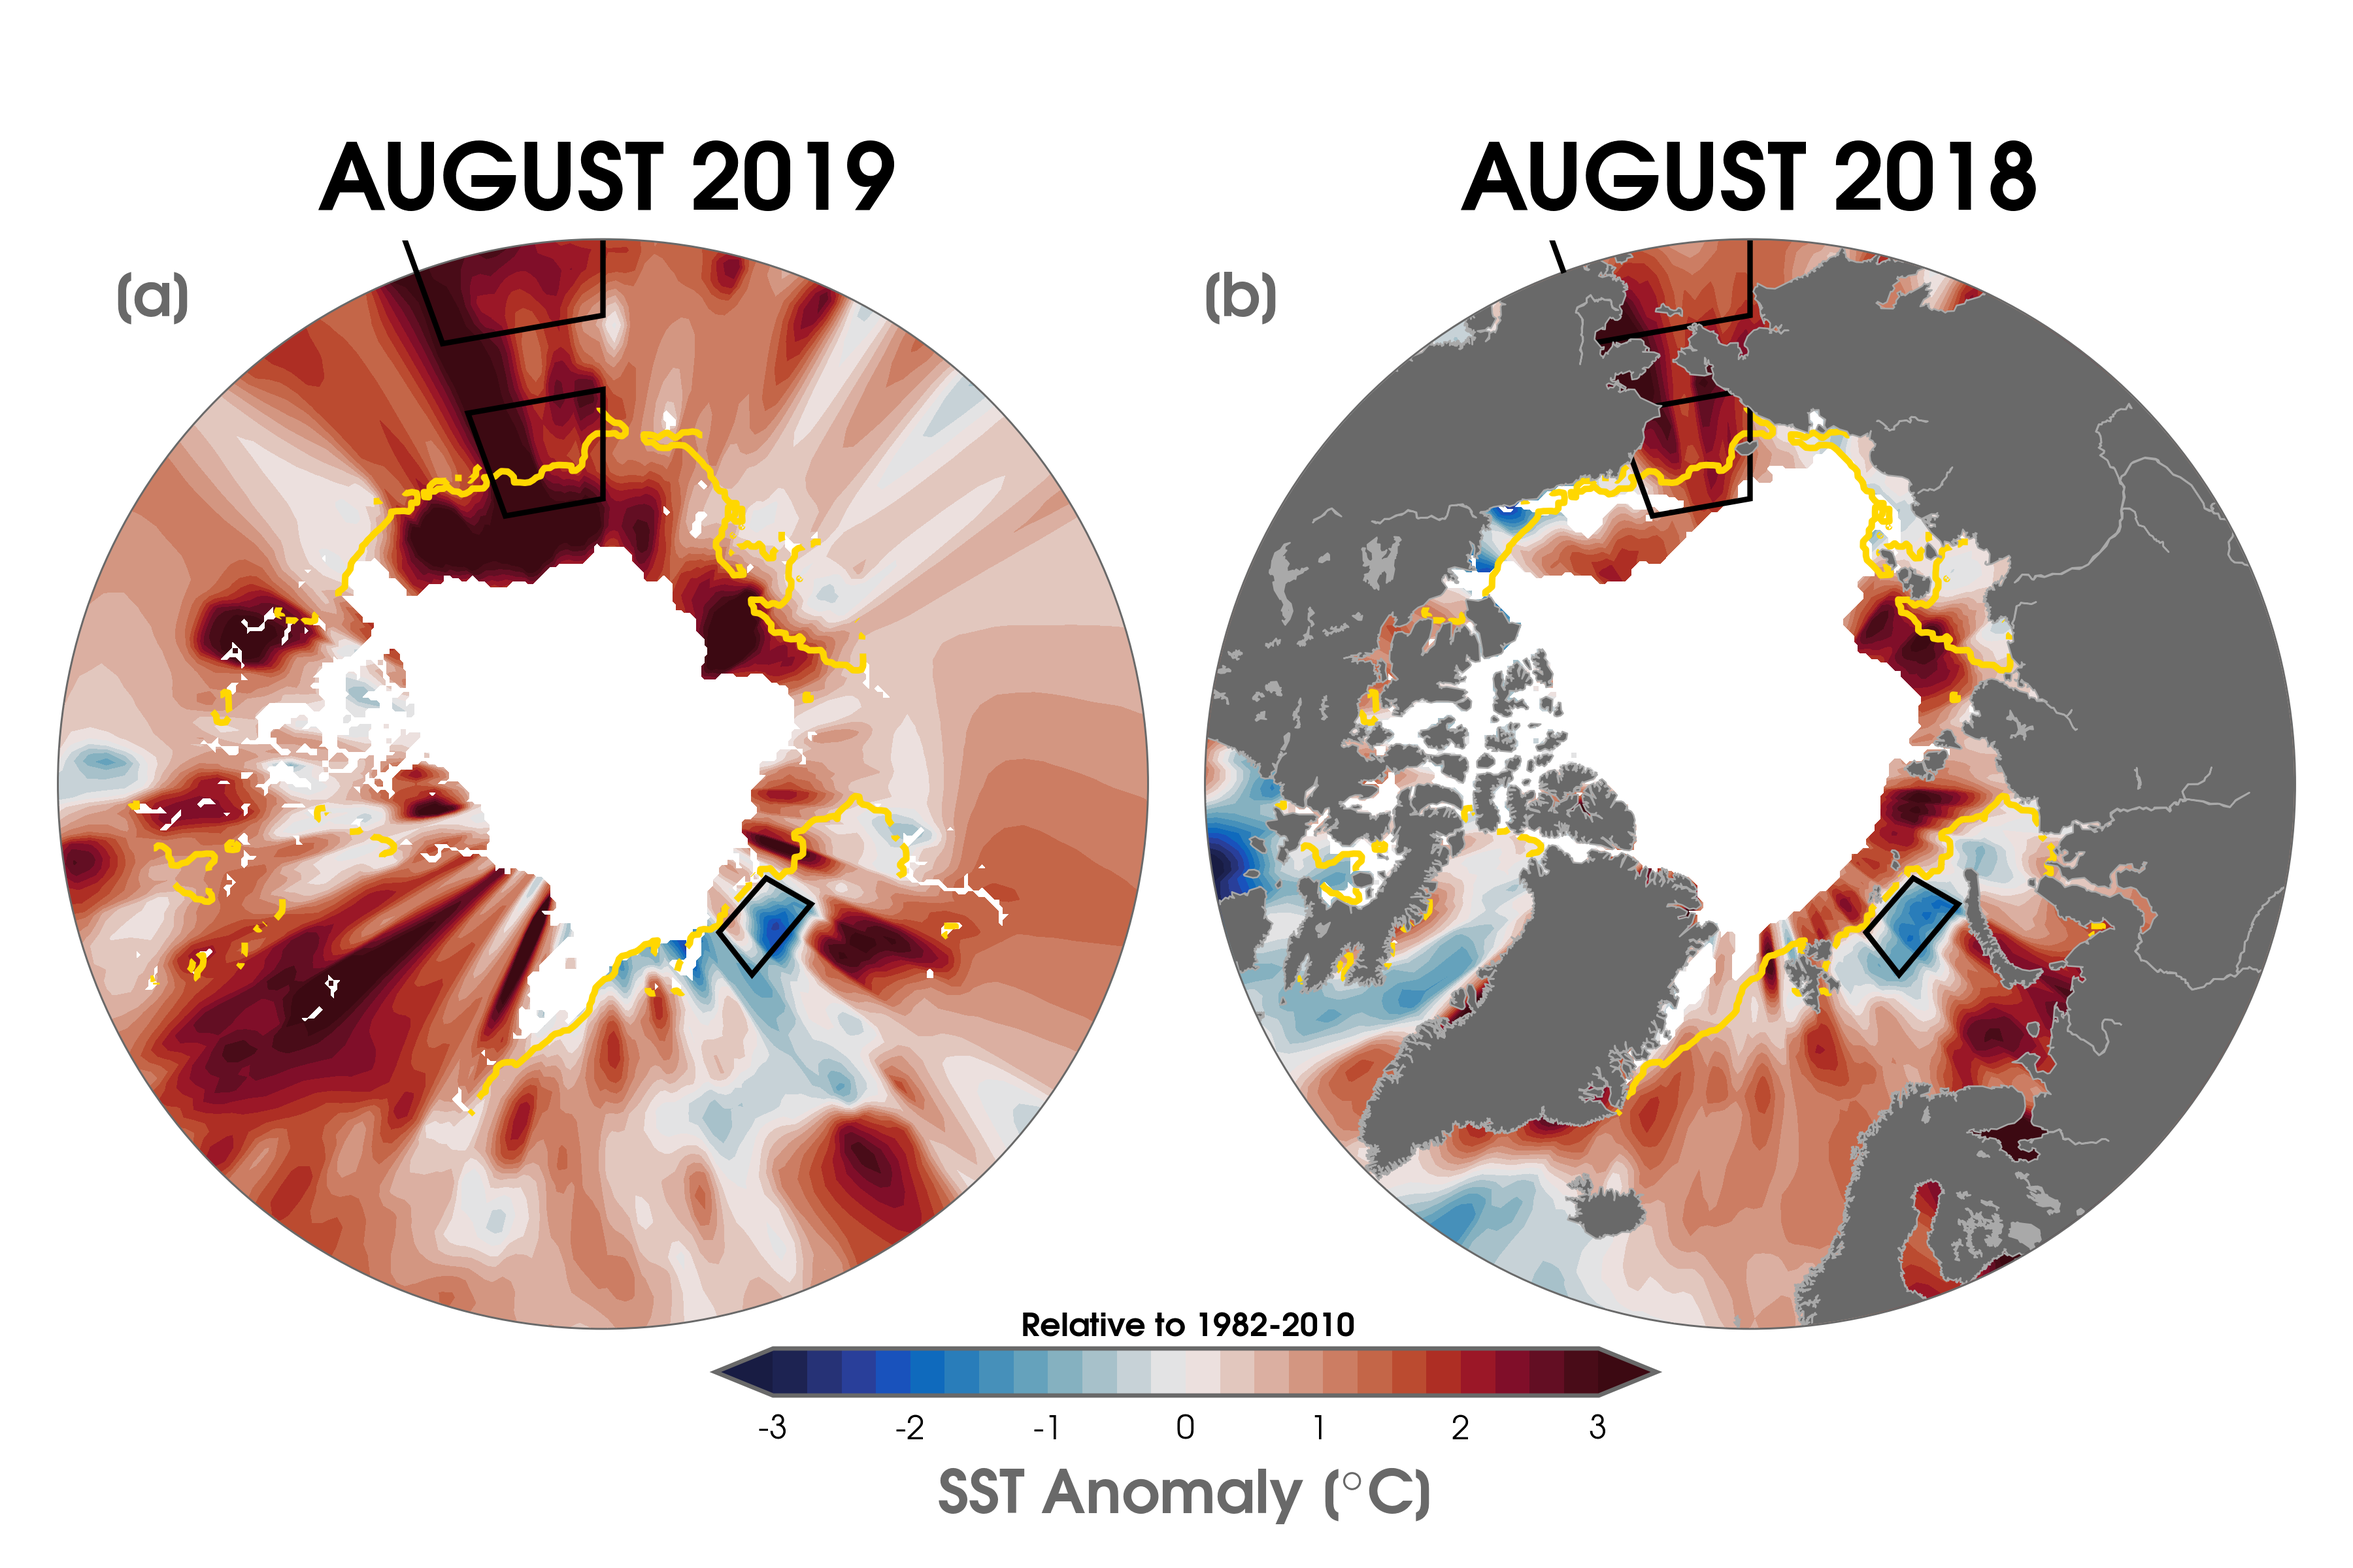
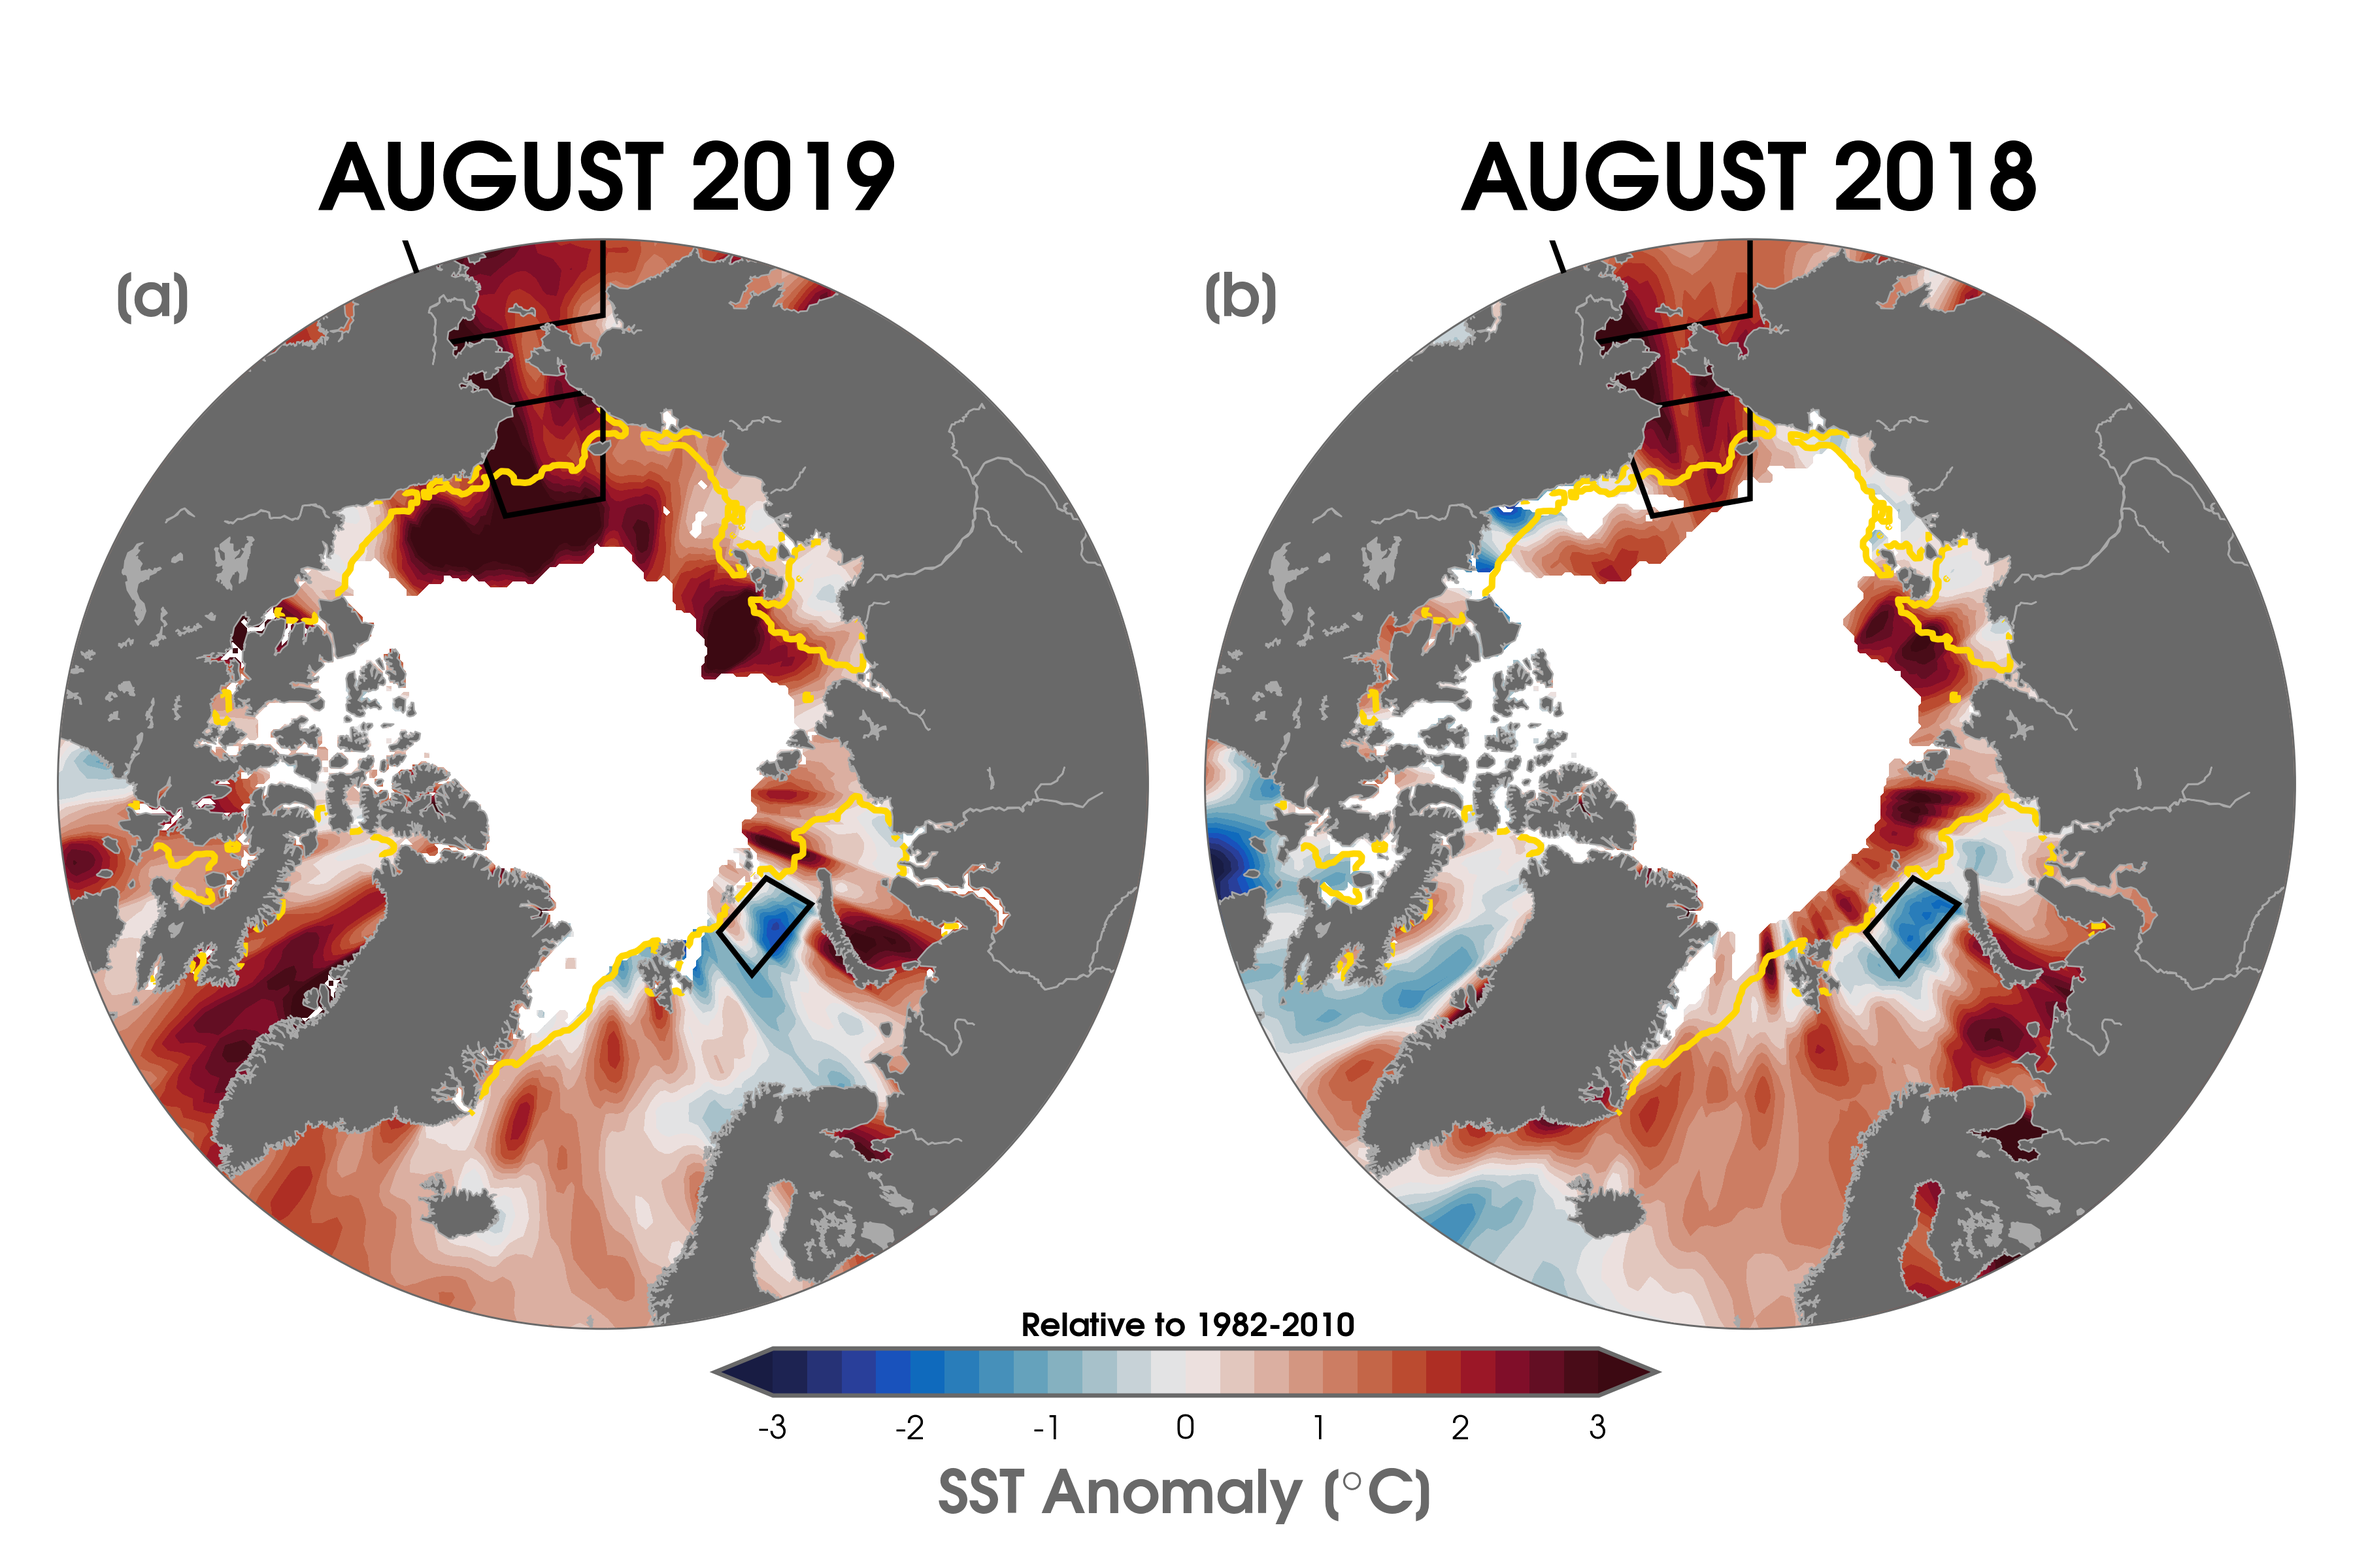
SIE calculate

Changed region(s): [[0.0, 0.1562, 0.4978, 0.8438], [0.1556, 0.75, 0.2178, 0.8125]]

diff --git a/BAMS_SOTC/2019/calc_meanSST.py b/BAMS_SOTC/2019/calc_meanSST.py
@@ -32,91 +32,93 @@ sstn[np.where(sstn == 0.)] = np.nan
 
 ### Reshape for [year,month,lat,lon]
 sst = np.reshape(sstn,(sstn.shape[0]//12,12,lat1.shape[0],lon1.shape[0]))
-#
-#### Calculate average for polar cap and mask data
-#def aveSST(data,lat,lon,mask,period):
-#    if mask == 'polar_cap':
-#        latpolar = 67.
-#        latq = np.where((lat >= latpolar))[0]
-#        sstnew = sst[:,:,latq,:]
-#        latt = lat[latq]
-#        lonn = lon
-#    elif mask == 'north_barents':
-#        latq = np.where((lat >= 76.4) & (lat <= 79.4))[0]
-#        lonq = np.where((lon >= 38) & (lon <= 60))[0]
-#        latt = lat[latq]
-#        lonn = lon[lonq]
-#        sstnew1 = sst[:,:,latq,:]
-#        sstnew = sstnew1[:,:,:,lonq]
-#    elif mask == 'chukchi':
-#        latq = np.where((lat >= 68) & (lat <= 74))[0]
-#        lonq = np.where((lon >= 180) & (lon <= 200))[0]
-#        latt = lat[latq]
-#        lonn = lon[lonq]
-#        sstnew1 = sst[:,:,latq,:]
-#        sstnew = sstnew1[:,:,:,lonq]
-#    elif mask == 'bering':
-#        latq = np.where((lat >= 54) & (lat <= 64))[0]
-#        lonq = np.where((lon >= 180) & (lon <= 200))[0]
-#        latt = lat[latq]
-#        lonn = lon[lonq]
-#        sstnew1 = sst[:,:,latq,:]
-#        sstnew = sstnew1[:,:,:,lonq]
-#    elif mask == 'global':
-#        sstnew = sst
-#        latt = lat
-#        lonn = lon
-#        
-#    ### Mask lat/lon for 2d
-#    lon2,lat2 = np.meshgrid(lonn,latt)
-#    
-#    ### Calculated weighted average
-#    sstave = UT.calc_weightedAve(sstnew,lat2)
-#    
-#    ### Calculate temporal period
-#    if period == 'annual':
-#        sstperiod = np.nanmean(sstave,axis=1)
-#    elif period == 'aug':
-#        sstperiod = sstave[:,7]
-#    elif period == 'sep':
-#        sstperiod = sstave[:,8]
-#        
-#    ### Calculate anomalies using 1982-2010 baseline
-#    years = np.arange(1982,2019+1,1)
-#    yearq = np.where((years >= 1982) & (years <= 2010))[0]
-#    
-#    climo = np.nanmean(sstperiod[yearq])
-#    anomperiod = sstperiod - climo
-#    
-#    return sstave,anomperiod,latt,lonn
-#
-#### Use functions
-#periodmonth = 'aug'
-#meansst_global,period_global,latt,lonn = aveSST(sst,lat1,lon1,'global',periodmonth)
-#meansst_polar,period_polar,latt,lonn = aveSST(sst,lat1,lon1,'polar_cap',periodmonth)
-#meansst_barents,period_barents,latt,lonn = aveSST(sst,lat1,lon1,'north_barents',periodmonth)
-#meansst_chukchi,period_chukchi,latt,lonn = aveSST(sst,lat1,lon1,'chukchi',periodmonth)
-#meansst_bering,period_bering,latt,lonn = aveSST(sst,lat1,lon1,'bering',periodmonth)
-#
-#### Calculate trends
-#regions = ['Global','Arctic','Barents','Chukchi','Bering']
-#dataall = [period_global,period_polar,period_barents,period_chukchi,period_bering]
-#print('\n----------------------------')
-#
-#slope = np.empty((len(dataall)))
-#intercept = np.empty((len(dataall)))
-#rvalue = np.empty((len(dataall)))
-#pvalue = np.empty((len(dataall)))
-#std_err = np.empty((len(dataall)))
-#for i in range(len(dataall)):
-#    time = np.arange(dataall[i].shape[0])
-#    slope[i],intercept[i],rvalue[i],pvalue[i],std_err[i] = sts.linregress(time,dataall[i])
-#    print('Trend is *%s* per year for *%s*' % (np.round(slope[i],3),regions[i]))
-#print('----------------------------\n')  
-#
-#### Confidence interval for 95% level
-#std_err = std_err*1.96
-#
+
+### Calculate average for polar cap and mask data
+def aveSST(data,lat,lon,mask,period):
+    if mask == 'polar_cap':
+        latpolar = 67.
+        latq = np.where((lat >= latpolar))[0]
+        sstnew = sst[:,:,latq,:]
+        latt = lat[latq]
+        lonn = lon
+    elif mask == 'north_barents':
+        latq = np.where((lat >= 76.4) & (lat <= 79.4))[0]
+        lonq = np.where((lon >= 38) & (lon <= 60))[0]
+        latt = lat[latq]
+        lonn = lon[lonq]
+        sstnew1 = sst[:,:,latq,:]
+        sstnew = sstnew1[:,:,:,lonq]
+    elif mask == 'chukchi':
+        latq = np.where((lat >= 68) & (lat <= 74))[0]
+        lonq = np.where((lon >= 180) & (lon <= 200))[0]
+        latt = lat[latq]
+        lonn = lon[lonq]
+        sstnew1 = sst[:,:,latq,:]
+        sstnew = sstnew1[:,:,:,lonq]
+    elif mask == 'bering':
+        latq = np.where((lat >= 54) & (lat <= 64))[0]
+        lonq = np.where((lon >= 180) & (lon <= 200))[0]
+        latt = lat[latq]
+        lonn = lon[lonq]
+        sstnew1 = sst[:,:,latq,:]
+        sstnew = sstnew1[:,:,:,lonq]
+    elif mask == 'global':
+        sstnew = sst
+        latt = lat
+        lonn = lon
+        
+    ### Mask lat/lon for 2d
+    lon2,lat2 = np.meshgrid(lonn,latt)
+    
+    ### Calculated weighted average
+    sstave = UT.calc_weightedAve(sstnew,lat2)
+    plt.contourf(sstnew[0,0,:,:])
+    plt.show()
+    
+    ### Calculate temporal period
+    if period == 'annual':
+        sstperiod = np.nanmean(sstave,axis=1)
+    elif period == 'aug':
+        sstperiod = sstave[:,7]
+    elif period == 'sep':
+        sstperiod = sstave[:,8]
+        
+    ### Calculate anomalies using 1982-2010 baseline
+    years = np.arange(1982,2019+1,1)
+    yearq = np.where((years >= 1982) & (years <= 2010))[0]
+    
+    climo = np.nanmean(sstperiod[yearq])
+    anomperiod = sstperiod - climo
+    
+    return sstave,anomperiod,latt,lonn
+
+### Use functions
+periodmonth = 'aug'
+meansst_global,period_global,latt,lonn = aveSST(sst,lat1,lon1,'global',periodmonth)
+meansst_polar,period_polar,latt,lonn = aveSST(sst,lat1,lon1,'polar_cap',periodmonth)
+meansst_barents,period_barents,latt,lonn = aveSST(sst,lat1,lon1,'north_barents',periodmonth)
+meansst_chukchi,period_chukchi,latt,lonn = aveSST(sst,lat1,lon1,'chukchi',periodmonth)
+meansst_bering,period_bering,latt,lonn = aveSST(sst,lat1,lon1,'bering',periodmonth)
+
+### Calculate trends
+regions = ['Global','Arctic','Barents','Chukchi','Bering']
+dataall = [period_global,period_polar,period_barents,period_chukchi,period_bering]
+print('\n----------------------------')
+
+slope = np.empty((len(dataall)))
+intercept = np.empty((len(dataall)))
+rvalue = np.empty((len(dataall)))
+pvalue = np.empty((len(dataall)))
+std_err = np.empty((len(dataall)))
+for i in range(len(dataall)):
+    time = np.arange(dataall[i].shape[0])
+    slope[i],intercept[i],rvalue[i],pvalue[i],std_err[i] = sts.linregress(time,dataall[i])
+    print('Trend is *%s* per year for *%s*' % (np.round(slope[i],3),regions[i]))
+print('----------------------------\n')  
+
+### Confidence interval for 95% level
+std_err = std_err*1.96
+
 #### Saving files for time series data
 #for i in range(len(dataall)):
 #    np.savetxt(directorydata + 'SST_%s_%s_1982-2019.txt' % (regions[i],periodmonth),

diff --git a/BAMS_SOTC/2019/calc_SIE.py b/BAMS_SOTC/2019/calc_SIE.py
@@ -1,0 +1,111 @@
+def readNSIDCData(currentmnq):
+    ### Import modules
+    import numpy as np
+    import urllib.request
+    
+    url = 'ftp://sidads.colorado.edu/DATASETS/NOAA/G02135/north/monthly/data/'
+    
+    if currentmnq < 10:
+        monthz = 'N_0%s_extent_v3.0.csv' % currentmnq
+    else:
+        monthz = 'N_%s_extent_v3.0.csv' % currentmnq
+    urls = url + monthz
+    
+    ### Read files
+    raw_data = urllib.request.urlopen(urls)
+    dataset = np.genfromtxt(raw_data, skip_header=1,delimiter=',',
+                            usecols=[0,1,4,5])
+    
+    print('\nCompleted: Read NSDIC Sea Ice Index v3 data!')                        
+    
+    ### Set missing data to nan
+    dataset[np.where(dataset==-9999)] = np.nan
+    
+    ### Variables
+    extent = dataset[3:,2]
+    return extent
+
+def calcSIE(thresh,region,monq):
+    ### Import modules
+    import numpy as np
+    import matplotlib.pyplot as plt
+    import calc_SeaIceConc_CDRv3 as ICE
+    
+    ### Read in sea ice concentration data
+    sic,years,lat,lon = ICE.readSIC(monq-1,True)
+    lon36 = np.mod(lon,360)
+    
+    ## Read in land mask
+    directorymask = '/surtsey/zlabe/seaice/sic/sic_rename/'
+    mask = np.fromfile(directorymask + 'gsfc_25n.msk',dtype='int8')
+    mask = np.reshape(mask,(448,304))
+    mask = mask.astype(float)
+    mask[np.where(mask == 1.0)] = np.nan
+    mask[np.where(mask == 0.0)] = 1.0
+    sicmask = sic * mask
+    
+    ### Check for missing data
+    sicmask[np.where(sicmask > 100)] = np.nan
+    sicmask[np.where(sicmask < thresh)] = np.nan
+    
+    ### Create binary
+    sie = sicmask.copy()
+    sie[np.where((sie >= 15.) & (sie <= 100.))] = 1.
+    
+    if region == 'arctic':
+        sieregion = np.where(lat > 50,sie,np.nan) 
+    elif region == 'north_barents':
+        sieregion1 = np.where(((lat >= 76.4) & (lat <= 79.4)),sie,np.nan)
+        sieregion = np.where(((lon36 >= 38) & (lon36 <= 60)),sieregion1,np.nan)
+    elif region == 'chukchi':
+        sieregion1 = np.where(((lat >= 68) & (lat <= 74)),sie,np.nan)
+        sieregion = np.where(((lon36 >= 180) & (lon36 <= 200)),sieregion1,np.nan)
+    elif region == 'bering':
+        sieregion1 = np.where(((lat >= 54) & (lat <= 64)),sie,np.nan)
+        sieregion = np.where(((lon36 >= 180) & (lon36 <= 200)),sieregion1,np.nan)
+    elif region == 'global':
+        sieregion = sie[:,:,:]
+        
+    ## Calculate sea ice extent
+    area = np.fromfile(directorymask + 'psn25area_v3.dat',dtype='<i4')
+    area = np.reshape(area,(448,304))/1000 # scale factor
+    area = area.astype(float)
+        
+    #ext = np.zeros((years.shape[0]))
+    #valyr = np.zeros((sieregion.shape))
+    #for yr in range(years.shape[0]):
+    #    for i in range(lat.shape[0]):
+    #        for j in range(lon.shape[1]):
+    #            if sieregion[yr,i,j] == 1.0:
+    #               ### Area of 25 km grid cell; 625 = 25 x 25]
+    #               valyr[yr,i,j] = 625 # km
+    #    ext[yr] = np.nansum(valyr[yr,:,:])/1e6
+        
+    ext = np.zeros((years.shape[0]))
+    valyr = np.zeros((sieregion.shape))
+    for yr in range(years.shape[0]):
+        for i in range(lat.shape[0]):
+            for j in range(lon.shape[1]):
+                if sieregion[yr,i,j] == 1.0:
+                   ### Area of 25 km grid cell; 625 = 25 x 25]
+                   valyr[yr,i,j] = area[i,j]
+        ext[yr] = np.nansum(valyr[yr,:,:])/1e6
+    
+    ### Compare to nsidc data
+    if region == 'arctic':
+        nsidc = readNSIDCData(monq)
+        corr = np.corrcoef(ext,nsidc)[0][1]
+        print('\n---Correlation is %s!---\n' % np.round(corr,3))
+    else:
+        nsidc = np.array([np.nan]*years.shape[0])
+        
+    return ext,nsidc
+
+### Call functions
+import numpy as np
+import matplotlib.pyplot as plt
+ext,nsidc = calcSIE(15,'north_barents',8)
+plt.plot(ext,label='weight')
+plt.plot(nsidc,label='NSIDC')
+plt.legend()
+plt.savefig('/home/zlabe/Desktop/test.png',dpi=300)

diff --git a/BAMS_SOTC/2019/plot_oisstv2_anomalies.py b/BAMS_SOTC/2019/plot_oisstv2_anomalies.py
@@ -111,8 +111,8 @@ cs3 = m.contour(lonsic,latsic,climoice,
                     linewidths=1.2,colors='gold',zorder=3,latlon=True)
 
 ###########################################################################
-#m.drawcoastlines(color='darkgray',linewidth=0.3,zorder=6)
-#m.fillcontinents(color='dimgrey',lake_color='darkgrey',zorder=5)
+m.drawcoastlines(color='darkgray',linewidth=0.3,zorder=6)
+m.fillcontinents(color='dimgrey',lake_color='darkgrey',zorder=5)
 
 latsb = [ 76.4, 79.4, 79.4, 76.5 ]
 lonsb = [ 38, 38, 60, 60 ]

diff --git a/BAMS_SOTC/2019/calc_SeaIceConc_CDRv3.py b/BAMS_SOTC/2019/calc_SeaIceConc_CDRv3.py
@@ -1,4 +1,3 @@
-
 def readSIC(monthindex,oisst):
     ### Import modules
     import numpy as np
@@ -75,6 +74,6 @@ def readSIC(monthindex,oisst):
     return sicalloi,yearsnew,lat,lon
 
 ### Test function
-import numpy as np
-import matplotlib.pyplot as plt
-sic,years,lat,lon = readSIC(7,True)
+#import numpy as np
+#import matplotlib.pyplot as plt
+#sic,years,lat,lon = readSIC(7,True)
